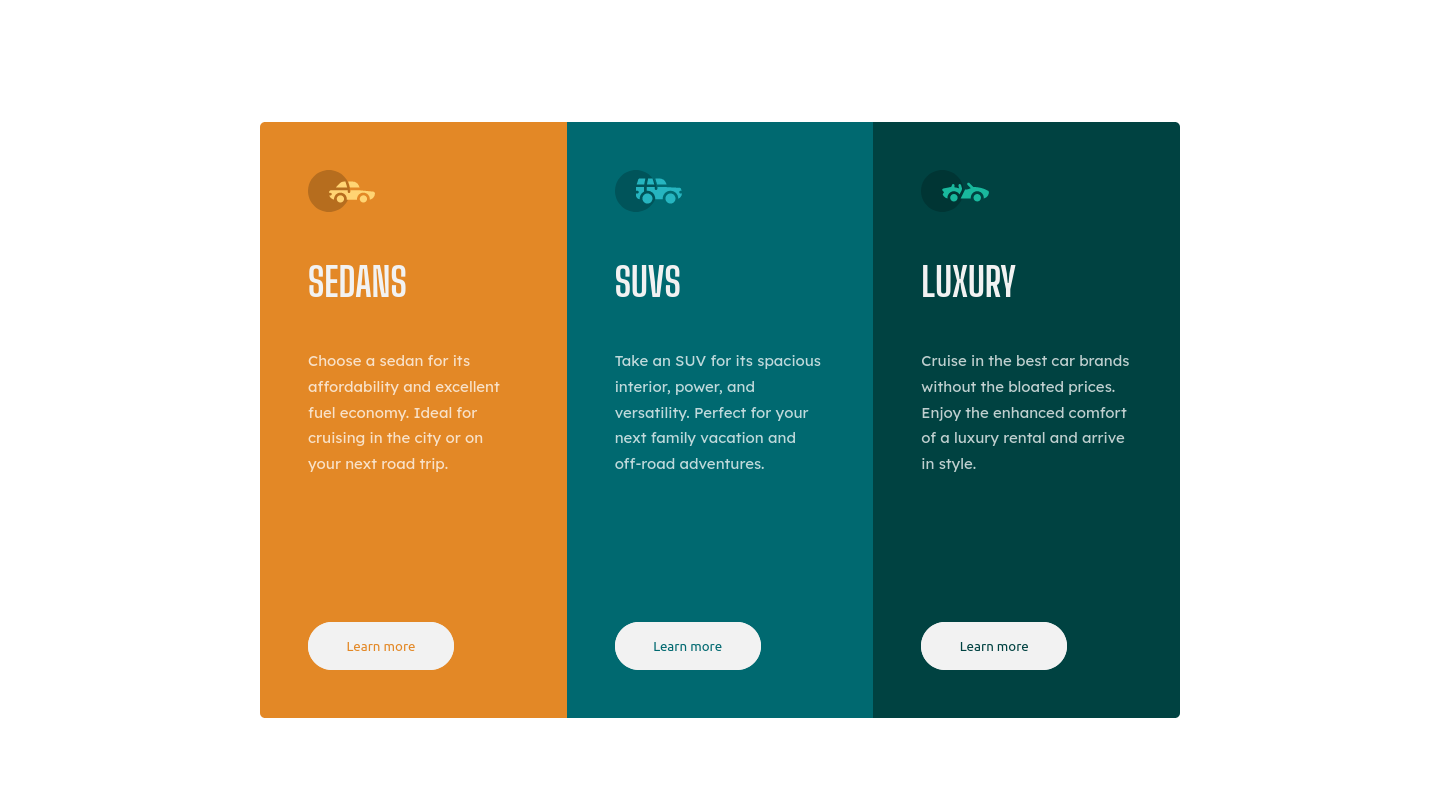
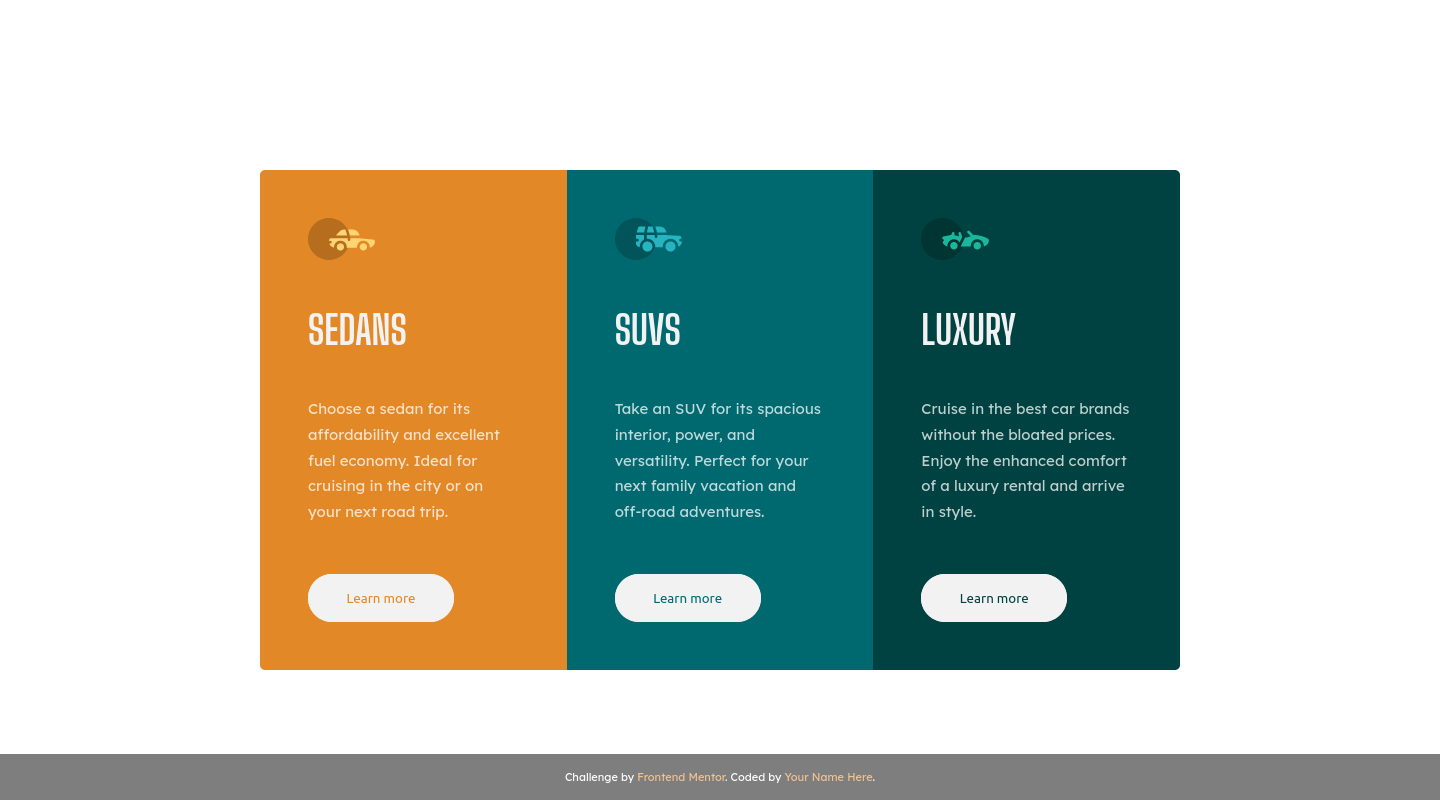
feat: add mobile design

diff --git a/style.css b/style.css
@@ -126,3 +126,26 @@ footer {
     color: var(--bright-orange);
     text-decoration: none;
 }
+
+@media screen and (max-width: 900px) {
+    body {
+        min-width: 375px;
+        height: auto;
+    }
+
+    main {
+        margin: 40px 0 96px 0;
+        max-width: 500px;
+        grid-template: 1fr / 1fr;
+        width: 87%;
+    }
+
+    .card {
+    }
+
+    button {
+        margin-top: 31px;
+        bottom: auto;
+        position: relative;
+    }
+}

diff --git a/index.html b/index.html
@@ -42,7 +42,7 @@
         <button class="btn__luxury">Learn more</button>
     </div>
 </main>
-<footer class="hidden">
+<footer>
     <div class="attribution">
         Challenge by <a href="https://www.frontendmentor.io?ref=challenge" target="_blank">Frontend Mentor</a>.
         Coded by <a href="#">Your Name Here</a>.
